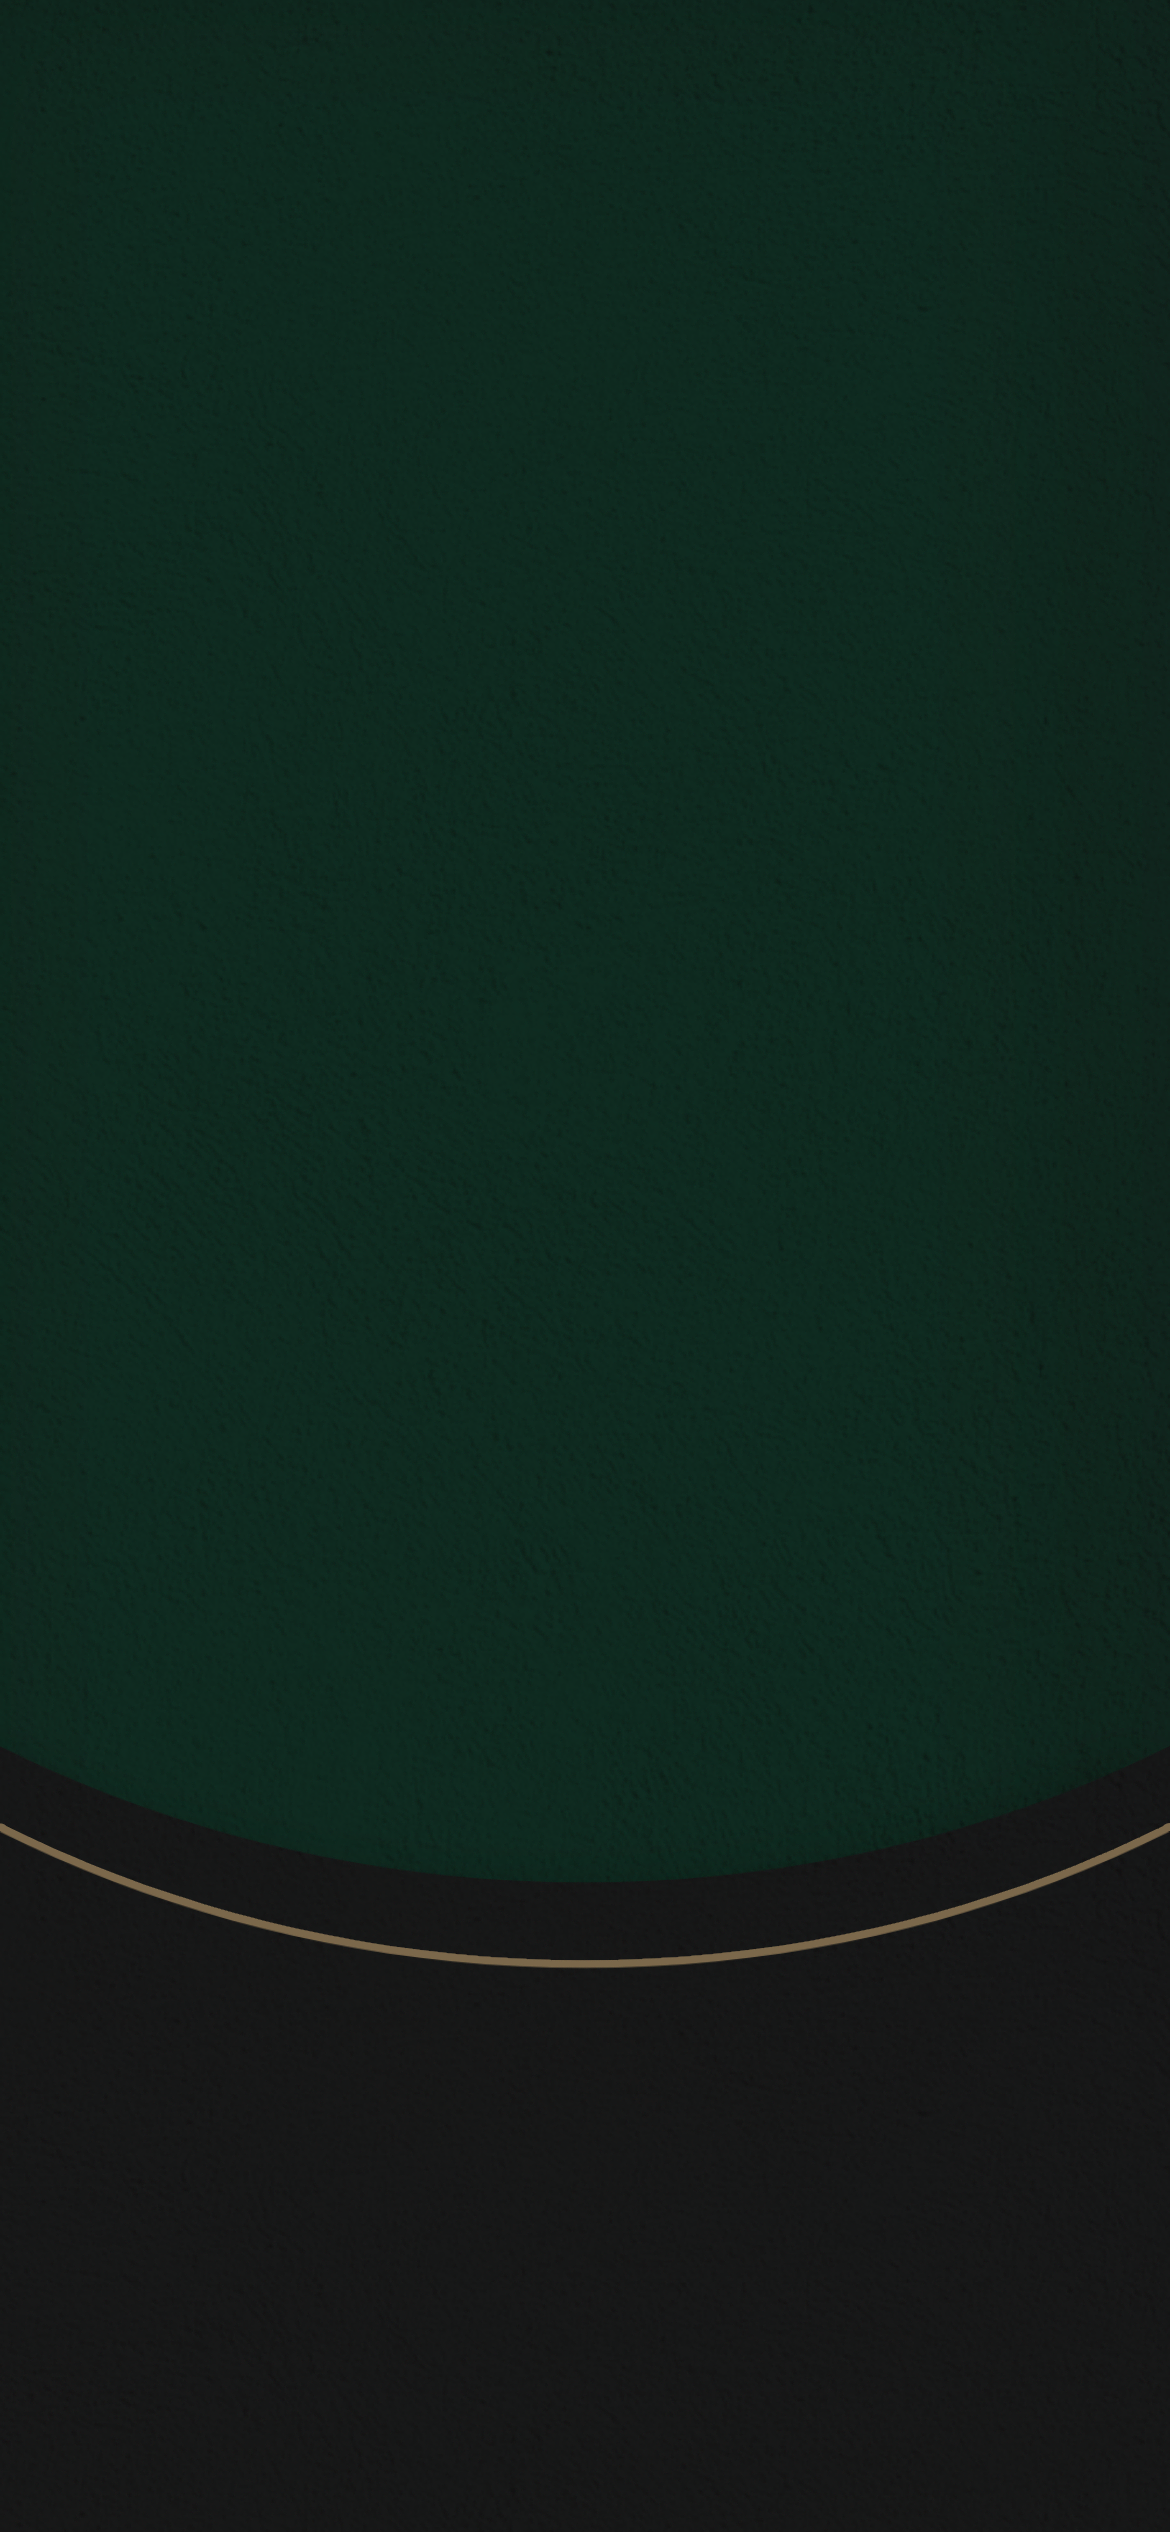
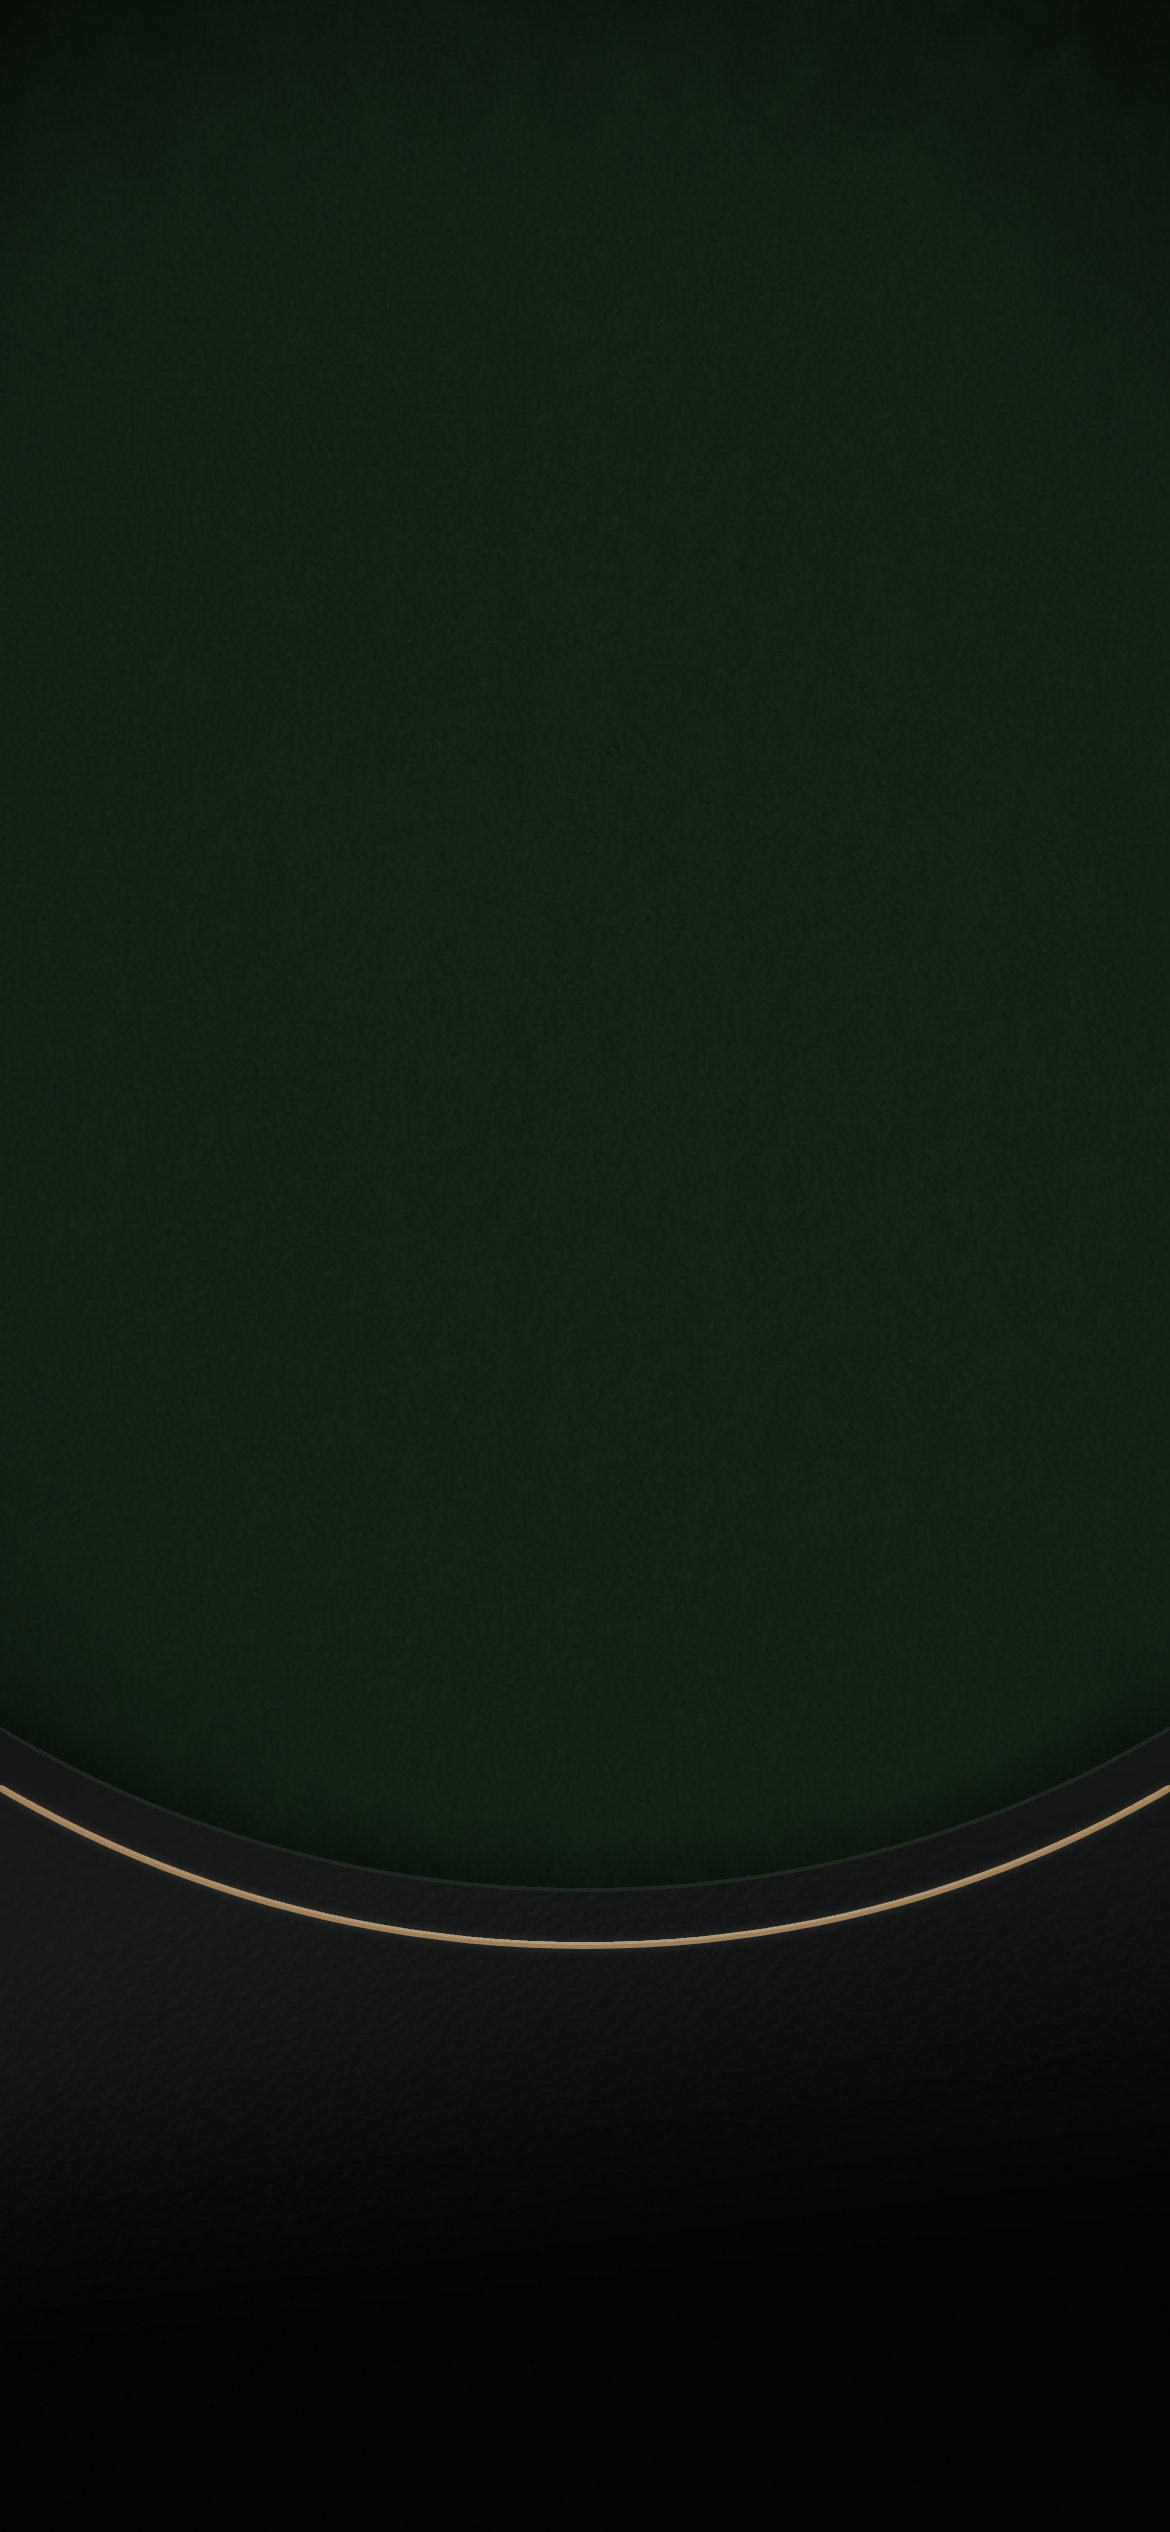
Add files via upload

Changed region(s): [[0.0, 0.6864, 1.0, 0.78]]

diff --git a/online.js b/online.js
@@ -769,7 +769,7 @@ function _handCardTilt(index, total) {
 }
 
 /** GPU-friendly card flight; calls onDone when finished (or immediately if reduced motion). */
-function _animateChkobbaFlight({ fromRect, toRect, imgSrc, duration = 260, rotate = 6, withGhost = false, onDone }) {
+function _animateChkobbaFlight({ fromRect, toRect, imgSrc, duration = 600, rotate = 6, withGhost = false, onDone }) {
     if (_prefersReducedMotion() || !fromRect || !toRect) {
         onDone?.();
         return;
@@ -786,8 +786,10 @@ function _animateChkobbaFlight({ fromRect, toRect, imgSrc, duration = 260, rotat
     const tx = toRect.left + toRect.width / 2;
     const ty = toRect.top + toRect.height / 2;
 
-    // Start position
+    // Start position with opacity 0 for smooth fade-in
     flyer.style.transform = `translate3d(${fx}px, ${fy}px, 0) scale(1) rotate(${rotate}deg) translate(-50%, -50%)`;
+    flyer.style.opacity = '0';
+    flyer.style.transition = `transform ${duration}ms cubic-bezier(0.25, 0.46, 0.45, 0.94), opacity ${duration * 0.2}ms ease-out`;
 
     const img = document.createElement('img');
     img.src = imgSrc;
@@ -800,36 +802,50 @@ function _animateChkobbaFlight({ fromRect, toRect, imgSrc, duration = 260, rotat
         ghost = document.createElement('div');
         ghost.className = 'chkobba-ghost-trail';
         ghost.style.transform = flyer.style.transform;
+        ghost.style.opacity = '0';
+        ghost.style.transition = `transform ${duration}ms cubic-bezier(0.25, 0.46, 0.45, 0.94), opacity ${duration * 0.2}ms ease-out`;
         const gImg = document.createElement('img');
         gImg.src = imgSrc;
         ghost.appendChild(gImg);
         layer.appendChild(ghost);
     }
 
-    // Trigger GPU animation
+    // Trigger GPU animation with fade-in
     requestAnimationFrame(() => {
         requestAnimationFrame(() => {
-            const endTransform = `translate3d(${tx}px, ${ty}px, 0) scale(0.85) rotate(${rotate * 0.35}deg) translate(-50%, -50%)`;
-            flyer.style.transform = endTransform;
+            // Fade in first
+            flyer.style.opacity = '1';
+            
+            // Then animate to target position
+            requestAnimationFrame(() => {
+                const endTransform = `translate3d(${tx}px, ${ty}px, 0) scale(1) rotate(${rotate * 0.35}deg) translate(-50%, -50%)`;
+                flyer.style.transform = endTransform;
 
-            if (ghost) {
-                // Ghost lags slightly behind visually via timing
-                setTimeout(() => {
-                    ghost.style.transform = endTransform;
-                    ghost.style.opacity = '0';
-                }, 60);
-            }
+                if (ghost) {
+                    // Ghost lags slightly behind visually via timing
+                    setTimeout(() => {
+                        ghost.style.opacity = '0.5';
+                        ghost.style.transform = endTransform;
+                        setTimeout(() => {
+                            ghost.style.opacity = '0';
+                        }, duration * 0.5);
+                    }, 60);
+                }
+            });
         });
     });
 
     const finish = () => {
-        flyer.remove();
-        if (ghost) setTimeout(() => ghost.remove(), 500);
-        onDone?.();
+        flyer.style.opacity = '0';
+        setTimeout(() => {
+            flyer.remove();
+            if (ghost) setTimeout(() => ghost.remove(), 200);
+            onDone?.();
+        }, 150);
     };
     flyer.addEventListener('transitionend', finish, { once: true });
     // Safety fallback
-    setTimeout(finish, duration + 50);
+    setTimeout(finish, duration + 200);
 }
 
 function _animateChkobbaFlightsSequential(flights, onDone) {
@@ -4559,14 +4575,50 @@ function _showOnlineChkobba(room) {
     _renderChkobbaOpponentPills(room, state, me, mode, roomPlayerMeta);
 
     const tableCont = document.getElementById('chkobba-table');
-    tableCont.innerHTML = '';
-    state.table.forEach((card, idx) => {
-        tableCont.appendChild(_renderChkobbaCard(card, {
-            zone: 'table',
-            index: idx,
-            interactive: canInteract
-        }));
+    
+    // Get existing cards to preserve them for animation
+    const existingCards = Array.from(tableCont.querySelectorAll('.table-card'));
+    const existingCardIds = new Set(existingCards.map(el => el.dataset.cardId));
+    
+    // Clear only cards that are no longer on the table
+    const newCardIds = new Set(state.table.map(c => c.id));
+    existingCards.forEach(el => {
+        if (!newCardIds.has(el.dataset.cardId)) {
+            el.remove();
+        }
     });
+    
+    // Add or update cards
+    state.table.forEach((card, idx) => {
+        let cardEl = tableCont.querySelector(`.table-card[data-card-id="${card.id}"]`);
+        if (!cardEl) {
+            // New card - render it
+            cardEl = _renderChkobbaCard(card, {
+                zone: 'table',
+                index: idx,
+                interactive: canInteract
+            });
+            tableCont.appendChild(cardEl);
+        } else {
+            // Existing card - update its index/rotation
+            cardEl.dataset.index = String(idx);
+            cardEl.style.setProperty('--rot', `${_tableCardRotation(idx, card.id)}deg`);
+        }
+    });
+
+    // Check total cards on table and apply appropriate size reduction
+    const tableCards = tableCont.querySelectorAll('.table-card');
+    const totalCards = tableCards.length;
+    
+    // Remove all stacking classes first
+    tableCont.classList.remove('is-stacked-30', 'is-stacked-60');
+    
+    // Apply appropriate class based on total cards
+    if (totalCards > 6) {
+        tableCont.classList.add('is-stacked-60');
+    } else if (totalCards > 4) {
+        tableCont.classList.add('is-stacked-30');
+    }
 
     // Setup menu and voice button event listeners
     _setupChkobbaMenuButtons();

diff --git a/chkobba.css b/chkobba.css
@@ -1,7 +1,7 @@
 /* Chkobba — theme-aware, floating mobile card UI */
 :root {
-    --chkobba-card-w: 144.585px;
-    --chkobba-card-h: 212.86125px;
+    --chkobba-card-w: 166.27275px;
+    --chkobba-card-h: 244.7904375px;
     --chkobba-ease: cubic-bezier(0.16, 1, 0.3, 1);
     --chkobba-card-shadow: 0 8px 20px rgba(45, 42, 38, 0.14);
     --chkobba-surface-shadow: var(--shadow-soft);
@@ -478,7 +478,7 @@ body.game-chkobba header.app-header {
     -webkit-backdrop-filter: blur(16px) saturate(180%);
     border: 1px solid rgba(255, 255, 255, 0.2);
     border-radius: 75px;
-    box-shadow: 0 8px 32px rgba(0, 0, 0, 0.15);
+    box-shadow: 0 8px 32px rgba(0, 0, 0, 0.15), 0 0 20px rgba(255, 255, 255, 0.3);
     color: #fff;
     font-weight: 700;
     font-size: 1.0rem;
@@ -637,9 +637,10 @@ body.game-chkobba header.app-header {
 /* In-place selection: keep table rotation, avoid translateY jump */
 .chkobba-card.table-card.is-selected,
 .chkobba-card.is-table.is-selected {
-    transform: rotate(var(--rot, 0deg));
+    transform: rotate(var(--rot, 0deg)) translateY(-8px);
     box-shadow: 0 0 0 3px var(--accent-color), 0 6px 16px rgba(241, 192, 81, 0.35), var(--chkobba-card-shadow);
     z-index: 40;
+    transition: transform 0.2s cubic-bezier(0.25, 0.46, 0.45, 0.94), box-shadow 0.2s ease;
 }
 
 .chkobba-card.hand-card.is-selected {
@@ -659,21 +660,51 @@ body.game-chkobba header.app-header {
 
 .chkobba-card.table-card,
 .chkobba-card.is-table {
-    transform: rotate(var(--rot, 0deg));
-    width: 106.2241846875px;
-    height: 156.5985403125px;
+    transform: rotate(var(--rot, 0deg)) translateY(14px);
+    width: 95.60176621875px;
+    height: 140.93868628125px;
+    transition: transform 0.4s cubic-bezier(0.25, 0.46, 0.45, 0.94), width 0.4s ease, height 0.4s ease;
+    animation: tableCardEnter 0.5s cubic-bezier(0.25, 0.46, 0.45, 0.94);
+}
+
+@keyframes tableCardEnter {
+    from {
+        opacity: 0;
+        transform: rotate(var(--rot, 0deg)) translateY(14px) scale(0.8);
+    }
+    to {
+        opacity: 1;
+        transform: rotate(var(--rot, 0deg)) translateY(14px) scale(1);
+    }
+}
+
+/* When more than 4 cards on table, reduce size by 30% */
+.chkobba-table.is-stacked-30 .chkobba-card.table-card,
+.chkobba-table.is-stacked-30 .chkobba-card.is-table {
+    width: 66.92123633125px;
+    height: 98.657080396875px;
+}
+
+/* When more than 6 cards on table, reduce size by 60% */
+.chkobba-table.is-stacked-60 .chkobba-card.table-card,
+.chkobba-table.is-stacked-60 .chkobba-card.is-table {
+    width: 38.2407064875px;
+    height: 56.3754745125px;
 }
 
 .chkobba-card.hand-card {
     z-index: var(--hand-z, 10);
-    transform: translateX(var(--stack-offset, 0px)) rotate(var(--tilt, 0deg));
+    transform:
+        translateX(var(--stack-offset, 0px))
+        translateY(var(--stack-lift, 0px))
+        rotate(var(--tilt, 0deg));
     margin-left: calc(var(--stack-overlap, 0px) * -1);
 }
 
 .chkobba-card.hand-card img {
     box-shadow:
-        0 2px 4px rgba(45, 42, 38, 0.12),
-        0 10px 22px rgba(45, 42, 38, 0.14);
+        0 4px 10px rgba(0,0,0,.28),
+        0 18px 36px rgba(0,0,0,.28);
     transition: box-shadow 0.7095s var(--chkobba-ease), filter 0.7095s var(--chkobba-ease);
 }
 
@@ -681,13 +712,25 @@ body.game-chkobba header.app-header {
     filter: brightness(0.98);
 }
 
+.chkobba-card.hand-card:hover img,
+.chkobba-card.hand-card.is-lifted img {
+    box-shadow:
+        0 8px 16px rgba(0,0,0,.35),
+        0 24px 48px rgba(0,0,0,.35);
+}
+
+
 .chkobba-card.hand-card:first-child {
     margin-left: 0;
 }
 
 .chkobba-card.hand-card:hover,
 .chkobba-card.hand-card.is-lifted {
-    transform: translateX(var(--stack-offset, 0px)) translateY(-14px) rotate(var(--tilt, 0deg)) scale(1.06);
+    transform:
+        translateX(var(--stack-offset, 0px))
+        translateY(calc(var(--stack-lift, 0px) - 10px))
+        rotate(var(--tilt, 0deg))
+        scale(1.04);
     z-index: 100;
 }
 
@@ -1039,8 +1082,8 @@ body.game-chkobba header.app-header {
 /* Responsive */
 @media (max-width: 600px) {
     :root {
-        --chkobba-card-w: 124.50375px;
-        --chkobba-card-h: 184.7475px;
+        --chkobba-card-w: 143.1793125px;
+        --chkobba-card-h: 212.459625px;
     }
     .chkobba-table {
         min-height: 170px;
@@ -1060,8 +1103,8 @@ body.game-chkobba header.app-header {
 
 @media (max-height: 700px) {
     :root {
-        --chkobba-card-w: 112.455px;
-        --chkobba-card-h: 164.66625px;
+        --chkobba-card-w: 129.32325px;
+        --chkobba-card-h: 189.3661875px;
     }
     .chkobba-stage {
         gap: 6px;
@@ -1119,8 +1162,8 @@ body.game-chkobba header.app-header {
         width: 94vw;
     }
     :root {
-        --chkobba-card-w: 108.43875px;
-        --chkobba-card-h: 159.31125px;
+        --chkobba-card-w: 124.7045625px;
+        --chkobba-card-h: 183.2079375px;
     }
     .chkobba-pile {
         width: 79px;

diff --git a/index.html b/index.html
@@ -277,6 +277,19 @@
             <!-- Chkobba Menu and Voice Buttons -->
             <div class="chkobba-top-controls">
                 <button id="chkobba-voice-btn" class="chkobba-voice-btn" type="button">🎙</button>
+                <div id="coup-turn-indicator" class="coup-turn-indicator hidden">
+                    <div id="chkobba-turn-timer" class="chkobba-turn-timer hidden">00:45</div>
+                    <div class="cti-pages">
+                        <div class="cti-page cti-page-turn active">
+                            <span class="cti-label">الدور على:</span>
+                            <strong id="cti-player-name">...</strong>
+                        </div>
+                        <div class="cti-page cti-page-players">
+                            <span class="cti-label">اللاعبين:</span>
+                            <div class="cti-players-list" id="cti-players-list"></div>
+                        </div>
+                    </div>
+                </div>
                 <button id="chkobba-menu-btn" class="chkobba-menu-btn" type="button">menu</button>
                 <div id="chkobba-menu-dropdown" class="chkobba-menu-dropdown hidden">
                     <button id="chkobba-back-to-main-btn" class="chkobba-menu-option">🏠 ارجع للقائمة الرئيسية</button>
@@ -342,12 +355,6 @@
             <button id="password-confirm-btn" class="primary-btn" style="margin-top:20px;">تأكيد</button>
             <button id="password-cancel-btn" class="secondary-btn" style="margin-top:10px; border:none; background:transparent; color:var(--text-muted);">إلغاء</button>
         </div>
-    </div>
-
-    <div id="coup-turn-indicator" class="coup-turn-indicator hidden">
-        <div id="chkobba-turn-timer" class="chkobba-turn-timer hidden">00:45</div>
-        <span class="cti-label">الدور على:</span>
-        <strong id="cti-player-name">...</strong>
     </div>
 
     <div id="toast-msg" class="toast"></div>

diff --git a/style.css b/style.css
@@ -983,7 +983,7 @@ body:not(.game-coup) .coup-only-btn { display: none !important; }
 
 .coup-turn-indicator {
     position: fixed;
-    top: 107.5px;
+    top: 53.75px;
     left: 50%;
     transform: translateX(-50%);
     z-index: 9991;
@@ -1002,6 +1002,16 @@ body:not(.game-coup) .coup-only-btn { display: none !important; }
     font-size: 0.95rem;
     pointer-events: none;
     transition: opacity 0.3s ease, transform 0.3s ease;
+}
+
+/* Chkobba mode: turn indicator sits in top controls, not floating */
+.chkobba-top-controls .coup-turn-indicator {
+    position: relative;
+    top: auto;
+    left: auto;
+    transform: none;
+    z-index: auto;
+    pointer-events: auto;
 }
 
 .chkobba-turn-timer {
